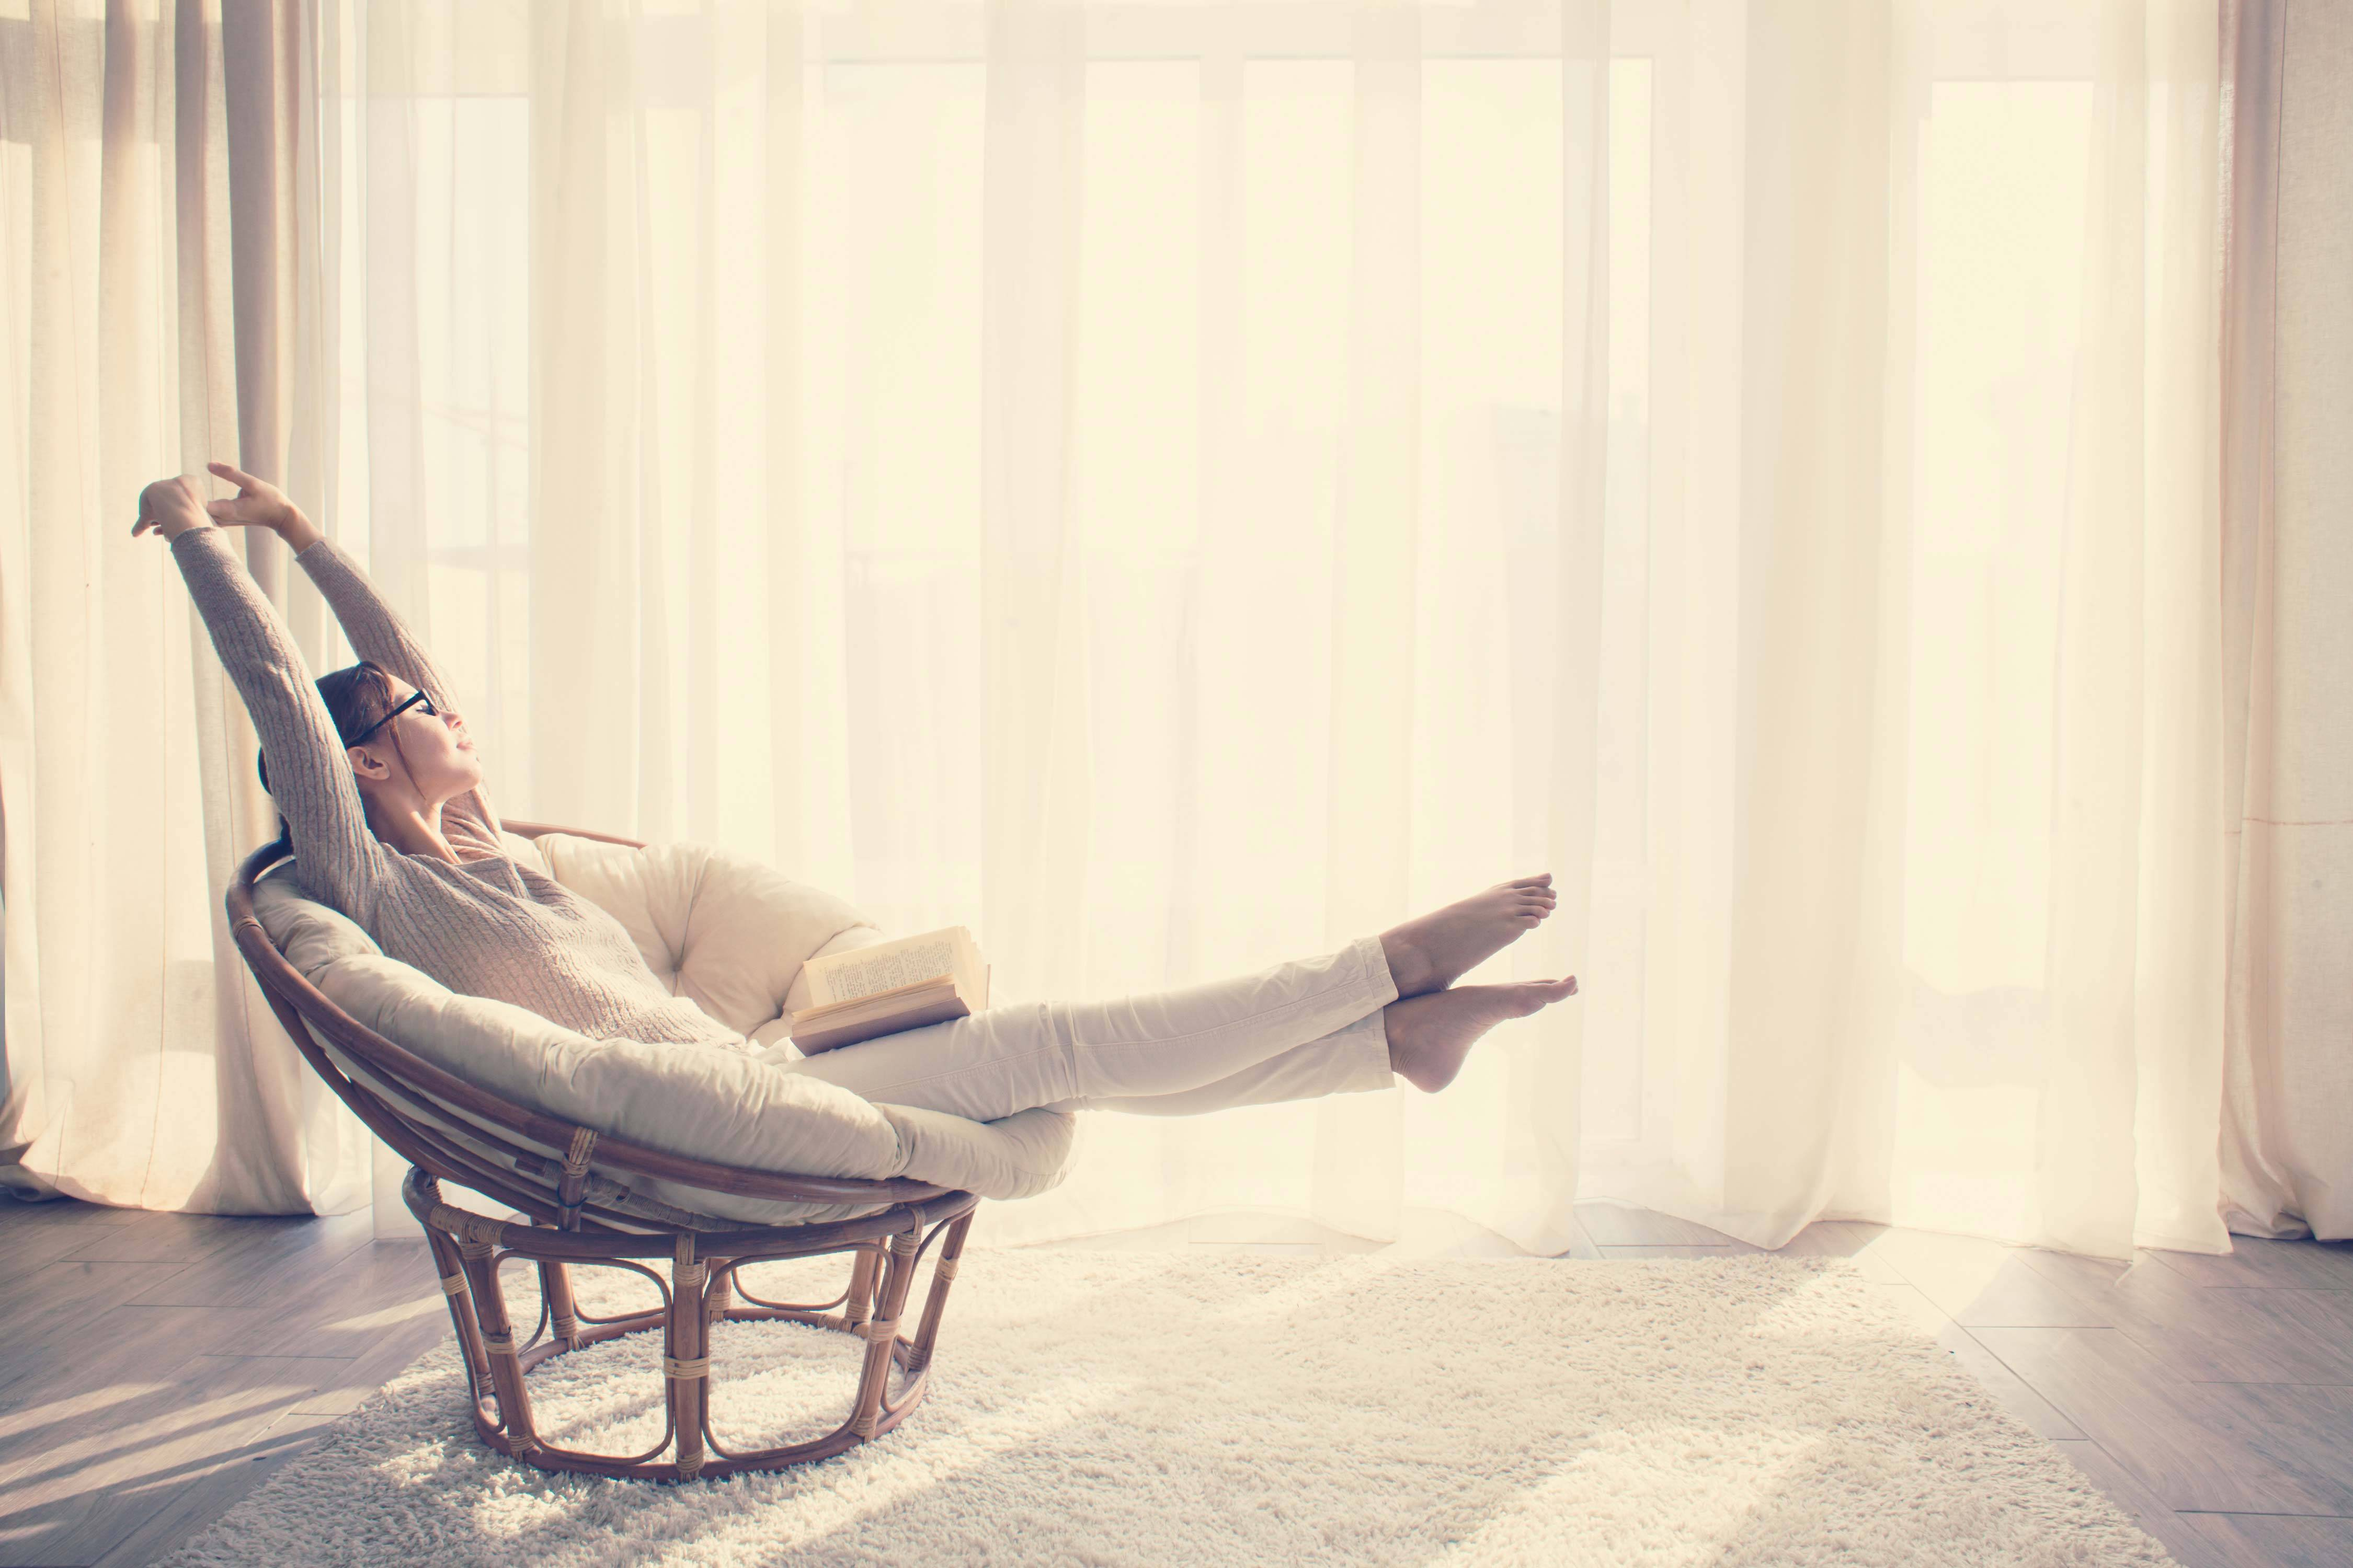
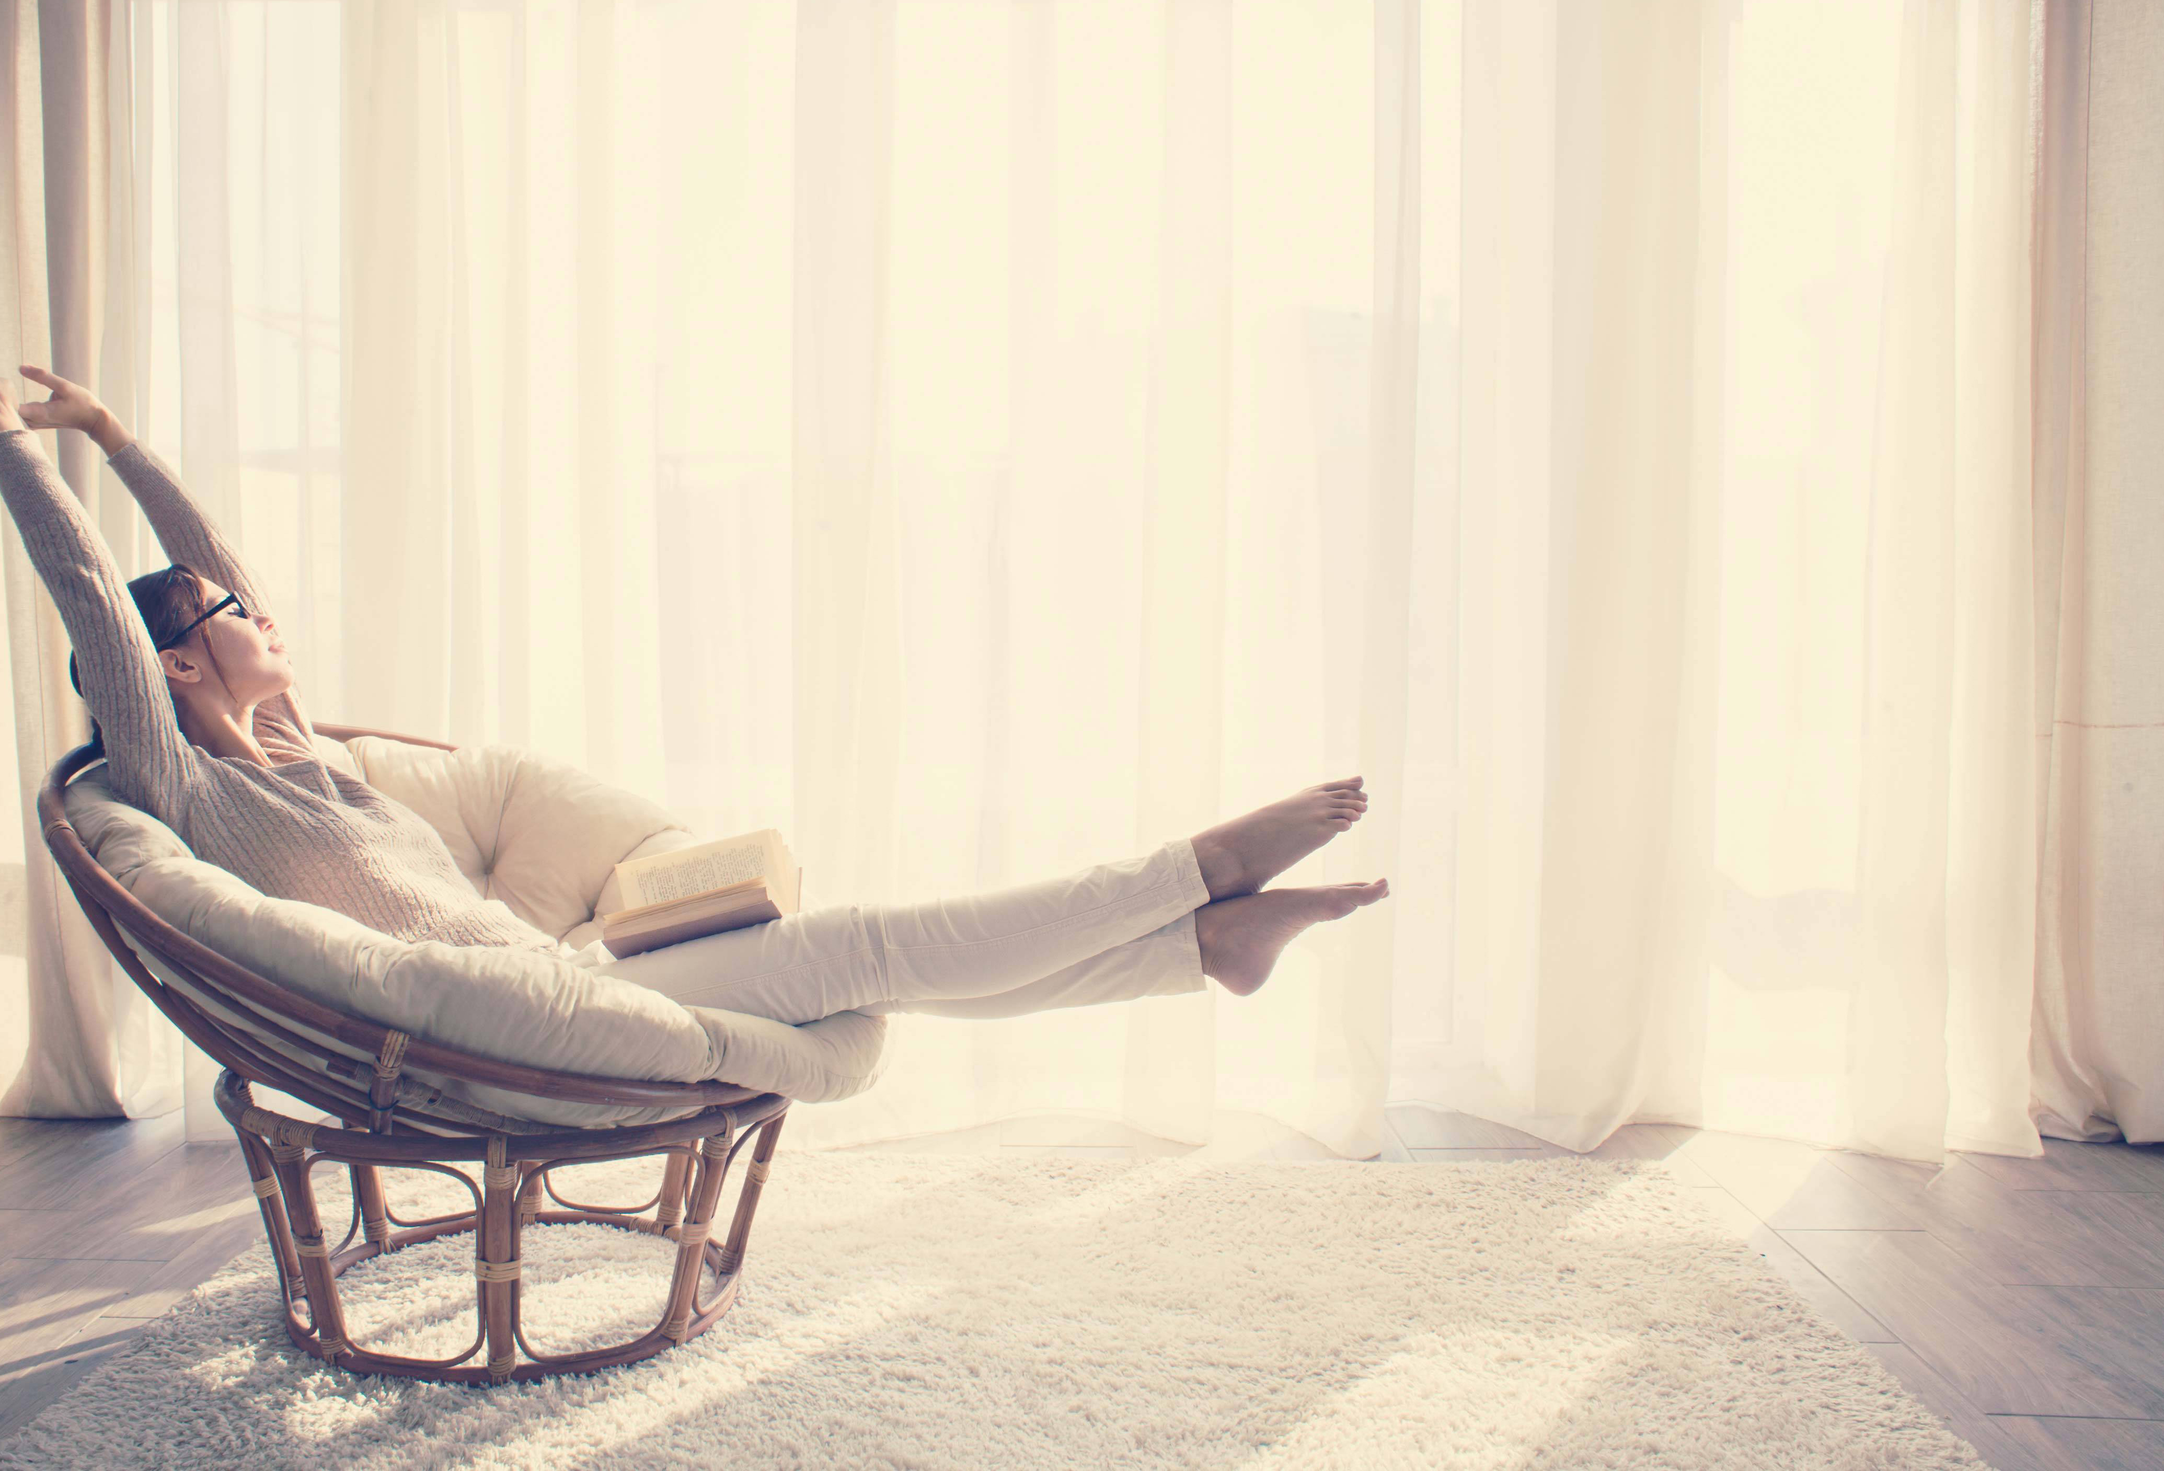
feat: Align title text and button on homepage above-the-fold section

diff --git a/css/styles.css b/css/styles.css
@@ -1,7 +1,7 @@
 html, body {
   height: 100%; }
 
-body {
+body, h1, h2, h3, h4, h5, h6, p {
   margin: 0;
   padding: 0;
   border: 0; }
@@ -18,7 +18,14 @@ html {
   font-size: 16px; }
 
 body, p {
-  font-family: 'Rubik', sans-serif; }
+  font-family: 'Roboto', sans-serif; }
+
+h1, h2, h3, h4, h5, h6 {
+  font-family: 'Roboto', sans-serif; }
+
+h1 {
+  font-weight: 400;
+  font-size: 36px; }
 
 .font-logo-primary-simply {
   font-weight: 500;
@@ -94,8 +101,22 @@ nav {
 main .above-the-fold {
   background-image: url("../img/homepage-hero-woman-relaxing.jpg");
   min-height: calc(100vh - 56px);
-  background-position: 12% center;
+  background-position: 0 center;
   background-repeat: no-repeat;
   background-size: cover; }
+  main .above-the-fold .flex-container {
+    display: flex;
+    flex-direction: column;
+    justify-content: space-around;
+    padding: 32px 16px;
+    height: calc((100vh - 56px) / 2.5); }
+    main .above-the-fold .flex-container h1 {
+      order: -1;
+      align-self: flex-end;
+      text-align: right;
+      width: 70%; }
+    main .above-the-fold .flex-container button {
+      order: 1;
+      align-self: flex-end; }
 
 /*# sourceMappingURL=styles.css.map */

diff --git a/sass/pages/_home.scss b/sass/pages/_home.scss
@@ -2,8 +2,25 @@ main {
     .above-the-fold {
         background-image: url("../img/homepage-hero-woman-relaxing.jpg");
         min-height: calc(100vh - 56px);
-        background-position: 12% center;
+        background-position: 0 center;
         background-repeat: no-repeat;
         background-size: cover;
+        .flex-container {
+            display: flex;            
+            flex-direction: column;
+            justify-content: space-around;
+            padding: 32px 16px;
+            height: calc((100vh - 56px) / 2.5);
+            h1 {
+                order: -1;
+                align-self: flex-end;
+                text-align: right;
+                width: 70%;
+            }
+            button {
+                order: 1;
+                align-self: flex-end;
+            }
+        }
     }
 }

diff --git a/index.html b/index.html
@@ -41,9 +41,15 @@
         </header>
         <!-- Main page content -->
         <main>
-            <!-- Above the fold content -->
+            <!-- Above the fold content section -->
             <section class="above-the-fold">
-                
+                <!-- Container for flex layout -->
+                <div class="flex-container">
+                    <!-- Page title -->
+                    <h1>That clean home feeling!</h1>
+                    <!-- Primary call to action button -->
+                    <button>Get a quote now!</button>
+                </div>
             </section>
         </main>
         <!-- Footer -->

diff --git a/sass/components/_navigation.scss b/sass/components/_navigation.scss
@@ -5,7 +5,7 @@ nav {
     padding: 4px;      
     
     .navigation-start {    
-        @include navigation-bar-section;
+        @include flex-item-standard;
         order: -1;
         justify-content: flex-start;
 
@@ -14,7 +14,7 @@ nav {
         }
     }
     .navigation-end {
-        @include navigation-bar-section;
+        @include flex-item-standard;
         order: 1;
         justify-content: flex-end;
 

diff --git a/sass/globals/_typography.scss b/sass/globals/_typography.scss
@@ -2,7 +2,14 @@ html {
     font-size: 16px;
 }
 body, p {
-    font-family: 'Rubik', sans-serif; 
+    font-family: 'Roboto', sans-serif; 
+}
+h1, h2, h3, h4, h5, h6 {
+    font-family: 'Roboto', sans-serif;
+}
+h1 {
+    font-weight: 400;
+    font-size: 36px;
 }
 
 // Logo fonts

diff --git a/sass/utils/_mixins.scss b/sass/utils/_mixins.scss
@@ -12,7 +12,7 @@
     direction: ltr;
     -webkit-font-smoothing: antialiased;
 }
-@mixin navigation-bar-section {  
+@mixin flex-item-standard {  
     display: inline-flex;
     align-items: center;
     min-width: 0;

diff --git a/sass/utils/_reset.scss b/sass/utils/_reset.scss
@@ -3,7 +3,7 @@ html, body {
 }
 
 // Reset for margins, padding and borders
-body {
+body, h1, h2, h3, h4, h5, h6, p {
     margin: 0;
     padding: 0;
     border: 0;
